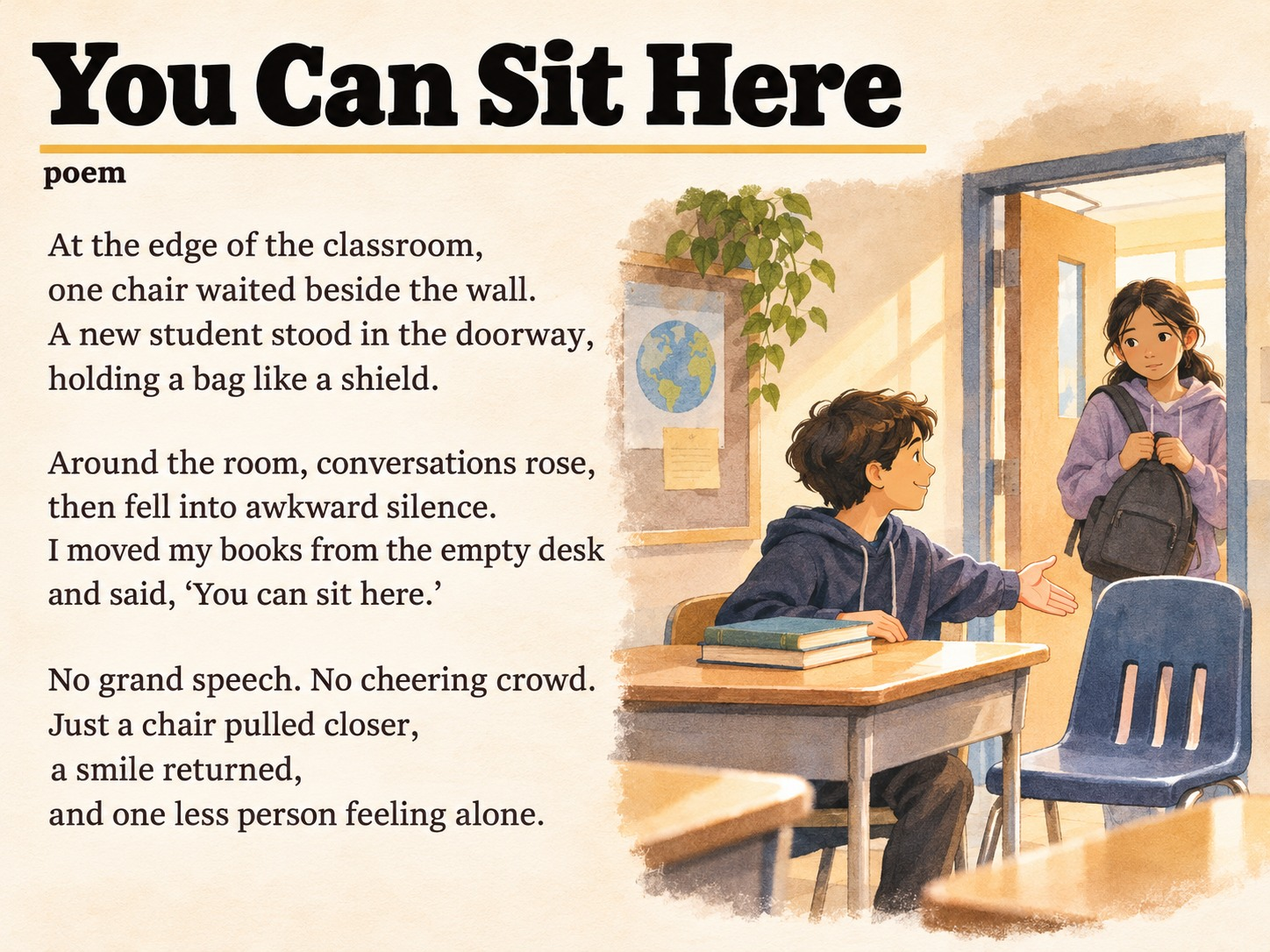
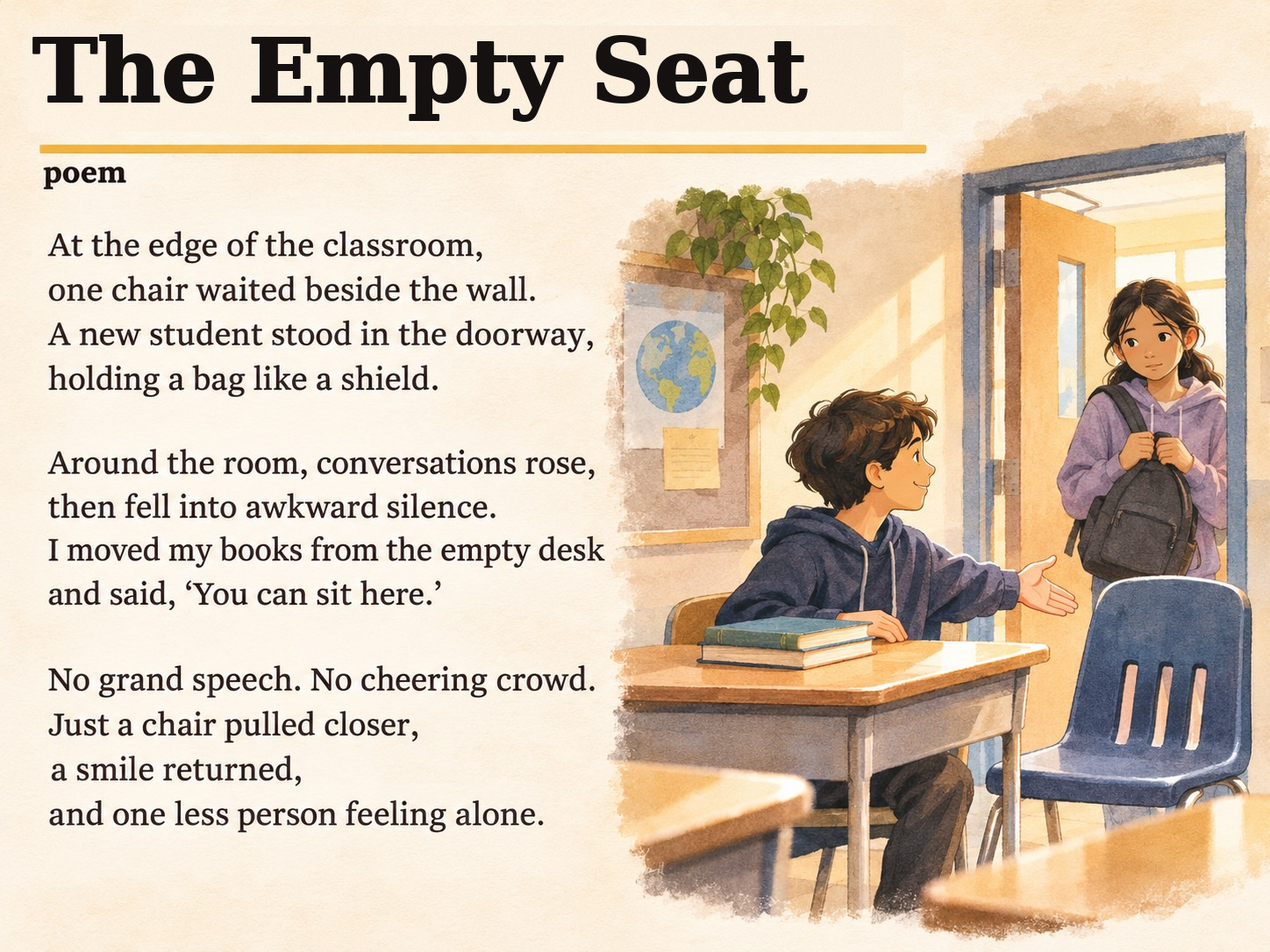
Add files via upload

Changed region(s): [[0.0311, 0.0304, 0.7148, 0.1519]]

diff --git a/week5.html b/week5.html
@@ -1,6 +1,9 @@
 <!doctype html><html lang="en"><head><meta charset="utf-8"><meta name="viewport" content="width=device-width,initial-scale=1"><title>Room 67’s Humanities | Week 5</title><style>
 @import url('https://fonts.googleapis.com/css2?family=Barlow+Condensed:wght@600;700;800&family=Poppins:wght@400;500;600;700;800&display=swap');
-:root{--wine:#73001e;--cherry:#240c0e;--cabernet:#52171c;--rose:#985b5d;--cocoa:#624039;--taupe:#ac968d;--mist:#d7d7d0;--paper:#f8f5f1;--ink:#241b1b;--line:#dfd4cf}*{box-sizing:border-box}body{margin:0;background:#eee9e4;color:var(--ink);font-family:'Avenir Next','Century Gothic',Arial,sans-serif;line-height:1.5}header{background:linear-gradient(110deg,#240c0e,#52171c 65%,#624039);color:white;padding:35px max(20px,calc((100vw - 1160px)/2));}header .over{letter-spacing:.17em;font-size:12px;text-transform:uppercase;color:#e8c9c4}h1{font-size:clamp(30px,5vw,52px);margin:5px 0;line-height:1.08}header p{margin:6px 0 0;color:#eee0dc}.wrap{max-width:1160px;margin:auto;padding:22px 16px 64px}.tabs{display:grid;grid-template-columns:repeat(6,minmax(0,1fr));gap:8px}.tab{border:2px solid #d8ccc6;background:white;border-radius:9px;padding:11px 9px;text-align:left;cursor:pointer;min-height:79px;color:#493032;font-size:13px;font-weight:700}.tab small{display:block;font-size:11px;font-weight:500;color:#796867;margin-top:4px}.tab.active{background:var(--wine);color:#fff;border-color:var(--wine)}.tab.active small{color:#f4dadd}.group-nav{display:grid;grid-template-columns:repeat(6,minmax(0,1fr));gap:8px;margin:10px 0 0}.group-nav button{min-width:0;min-height:58px;background:#fdfaf7;border:2px solid #ac968d;color:#52171c;border-radius:8px;cursor:pointer;text-align:center;padding:8px;font-weight:800;font-size:14px}.group-nav button small{display:block;font-weight:500;font-size:10px;line-height:1.25;color:#66524d;margin-top:3px}.group-nav button.active{background:#52171c;border-color:#52171c;color:#fff}.group-nav button.active small{color:#f0dcda}.group-nav .utility-tab{background:#eee3dd;border-color:#9d7872;color:#52171c}.group-nav .utility-tab.active{background:#73001e;color:white}.group-nav .utility-tab.active small{color:#f4dadd}.roster-cards{display:grid;grid-template-columns:repeat(5,1fr);gap:9px;margin-bottom:16px}.roster-card{background:#faf6f2;border:2px solid #d8c2bc;border-radius:10px;padding:12px 8px;text-align:left;cursor:pointer;color:#52171c}.roster-card.selected{border-color:#73001e;background:#f4e5e1}.roster-card b{display:block;margin-bottom:5px}.roster-card span{font-size:12px;line-height:1.5;display:block}.secondary-tabs{display:flex;gap:9px;margin:12px 0 20px;flex-wrap:wrap}.secondary-tabs .tab{min-height:auto;min-width:160px;text-align:center;padding:10px}section.page{display:none}section.page.active{display:block}.hero{background:#fff;border:1px solid var(--line);border-radius:16px;overflow:hidden;margin-bottom:16px;box-shadow:0 3px 0 #ded5cf}.herohead{background:linear-gradient(110deg,#52171c,#624039);color:white;padding:29px 33px}.pill{display:inline-block;border-radius:20px;background:#f4d5b1;color:#3a211c;font-size:12px;font-weight:800;padding:6px 14px}.hero h2{font-size:clamp(30px,4vw,46px);line-height:1.1;margin:18px 0 10px}.herohead p{max-width:750px}.inner{padding:26px 30px}.two{display:grid;grid-template-columns:1fr 1fr;gap:20px}.three{display:grid;grid-template-columns:repeat(3,1fr);gap:14px}.panel{border:1px solid var(--line);border-radius:12px;background:#fff;padding:19px}.panel h3{margin:0 0 12px;color:#4c272a}.panel p{margin:8px 0}.poem{font-family:Poppins,Arial,sans-serif;white-space:pre-line;font-size:19px;line-height:1.85;background:#f8f5f1;border-left:5px solid var(--rose);padding:25px;border-radius:8px}.q{padding:11px 0;border-bottom:1px solid #ebdfda}.q b{color:#762646}.q:last-child{border:none}.muted{color:#695b58;font-size:13px}.book{padding:17px 24px 22px 28px;background:repeating-linear-gradient(to bottom,#fffdfa 0,#fffdfa 33px,#c6d7e8 33px,#c6d7e8 34px);border-left:3px solid #b9404d;min-height:238px;font-family:'Comic Sans MS','Trebuchet MS',sans-serif;font-size:16px;line-height:34px}.book .bookline{min-height:34px;line-height:34px;white-space:normal}.book .heading{margin:0!important}.book .date{line-height:34px}.book .date{color:#aa1933;text-decoration:underline}.book .heading{text-align:center;text-decoration:underline;text-decoration-color:#b12f48;margin:0 0 34px}.note{background:#f5e7e2;border-left:5px solid var(--rose);border-radius:7px;padding:12px 16px}.teacher{border:2px solid var(--wine);border-radius:13px;overflow:hidden;background:white;margin:16px 0}.teacher>h3{margin:0;background:var(--wine);color:white;padding:16px 22px;letter-spacing:.03em}.teacher .content{padding:18px 22px}.teacher .model{border-radius:9px;padding:15px;background:#f3e6e2}.teacher .steps{display:grid;grid-template-columns:repeat(3,1fr);gap:12px}.teacher .steps>div{border:1px solid #ddd0cb;border-radius:8px;padding:12px}.teacher h4{margin:0 0 8px;color:#762a3d}.workshop-nav{display:grid;grid-template-columns:repeat(5,minmax(0,1fr));gap:9px;margin:16px 0}.workshop-nav button{border:2px solid #73001e;background:#fff8f6;border-radius:10px;padding:12px 5px;font-weight:800;color:#52171c;cursor:pointer}.workshop-nav button.active{background:#52171c;color:white}.workshop-model-grid{display:grid;grid-template-columns:1fr 1fr;gap:12px}.workshop-model-grid .panel{background:#faf4f1}.workshop-practice{padding:13px;border-radius:9px;background:#f6e8e3;margin-top:12px}.workshop-steps{margin:8px 0;padding-left:26px}.workshop-steps li{padding:5px 0}.workshop-buttons{display:grid;grid-template-columns:repeat(2,1fr);gap:10px;max-width:650px;margin:0 auto 18px}.workshop-buttons button{border:3px solid #a24667;border-radius:4px;background:white;padding:12px;font-size:25px;color:#555;cursor:pointer}.workshop-buttons button.selected{background:#52171c;color:white}.workshop-buttons button:last-child:nth-child(odd){grid-column:1/-1;width:50%;justify-self:center}.group-focus{display:inline-block;background:#f0e0dc;color:#6b2236;padding:5px 10px;border-radius:7px;font-size:12px}.wordgrid{display:grid;grid-template-columns:repeat(3,1fr);gap:12px}.wordgrid .wordcol{padding:12px;background:#faf6f1;border:1px solid #e5d5cc;border-radius:9px}.wordgrid ol{margin:0;padding-left:25px}.wordgrid li{padding:4px 0}.handwriting{background:#69453c;color:#fff;border-radius:16px;padding:26px}.handwriting .panel{color:#251c1a}.handwriting h2{margin:4px 0 10px}.links a,.btn{color:#fff;background:#52171c;padding:9px 13px;border-radius:8px;display:inline-block;text-decoration:none;margin:4px 4px 4px 0;font-size:13px}.tumble{background:#52171c;color:white;padding:19px;border-radius:13px;margin-top:18px}.tumble h3{color:white;margin:0 0 10px}.tumble-grid{display:grid;grid-template-columns:1fr 1fr;gap:9px}.tumble-grid>div{background:#fff9f5;color:#382629;border-radius:8px;padding:13px}.tumble-grid b{color:#69223a}textarea{width:100%;min-height:130px;padding:12px;border-radius:8px;border:1px solid #c9b7b0;font:inherit}button.save{padding:9px 15px;border:0;border-radius:7px;background:#52171c;color:white;cursor:pointer;margin-top:6px}.smallcaps{text-transform:uppercase;letter-spacing:.11em;font-size:12px;font-weight:800;color:#a15c64}.focusline{padding:9px 0;border-bottom:1px solid #e6dcd5}.banner{background:#73001e;color:white;text-align:center;padding:20px;font-size:33px;font-weight:800;line-height:1.18;margin-bottom:16px}.no-print{}@media(max-width:760px){.tabs{grid-template-columns:repeat(2,1fr)}.group-nav{grid-template-columns:repeat(2,1fr)}.roster-cards{grid-template-columns:repeat(2,1fr)}.two,.three,.teacher .steps,.tumble-grid,.workshop-model-grid{grid-template-columns:1fr}.workshop-nav{grid-template-columns:repeat(3,minmax(0,1fr))}.wordgrid{grid-template-columns:repeat(3,minmax(0,1fr));gap:5px}.wordgrid .wordcol{padding:5px;font-size:12px}.inner{padding:18px}.herohead{padding:23px}.workshop-buttons button{font-size:19px}}@media print{header{padding:16px}.tabs,.secondary-tabs,.no-print{display:none!important}section.page{display:block!important;page-break-after:always}.wrap{padding:5px}.hero{box-shadow:none}.teacher,.tumble{break-inside:avoid}}
+:root{--wine:#73001e;--cherry:#240c0e;--cabernet:#52171c;--rose:#985b5d;--cocoa:#624039;--taupe:#ac968d;--mist:#d7d7d0;--paper:#f8f5f1;--ink:#241b1b;--line:#dfd4cf}*{box-sizing:border-box}body{margin:0;background:#eee9e4;color:var(--ink);font-family:'Avenir Next','Century Gothic',Arial,sans-serif;line-height:1.5}header{background:linear-gradient(110deg,#240c0e,#52171c 65%,#624039);color:white;padding:35px max(20px,calc((100vw - 1160px)/2));}header .over{letter-spacing:.17em;font-size:12px;text-transform:uppercase;color:#e8c9c4}h1{font-size:clamp(30px,5vw,52px);margin:5px 0;line-height:1.08}header p{margin:6px 0 0;color:#eee0dc}.wrap{max-width:1160px;margin:auto;padding:22px 16px 64px}.tabs{display:grid;grid-template-columns:repeat(6,minmax(0,1fr));gap:8px}.tab{border:2px solid #d8ccc6;background:white;border-radius:10px;padding:11px 9px;text-align:left;cursor:pointer;min-height:79px;color:#493032;font-size:13px;font-weight:700}.tab small{display:block;font-size:11px;font-weight:500;color:#796867;margin-top:4px}.tab.active{background:var(--wine);color:#fff;border-color:var(--wine)}.tab.active small{color:#f4dadd}.group-nav{display:grid;grid-template-columns:repeat(6,minmax(0,1fr));gap:8px;margin:10px 0 0}.group-nav button{min-width:0;min-height:58px;background:#fdfaf7;border:2px solid #ac968d;color:#52171c;border-radius:8px;cursor:pointer;text-align:center;padding:8px;font-weight:800;font-size:14px}.group-nav button small{display:block;font-weight:500;font-size:10px;line-height:1.25;color:#66524d;margin-top:3px}.group-nav button.active{background:#52171c;border-color:#52171c;color:#fff}.group-nav button.active small{color:#f0dcda}.group-nav .utility-tab{background:#eee3dd;border-color:#9d7872;color:#52171c}.group-nav .utility-tab.active{background:#73001e;color:white}.group-nav .utility-tab.active small{color:#f4dadd}
+.group-nav .utility-tab.warmup-utility,.group-nav .utility-tab.warmup-utility.active{background:#624039;border-color:#624039;color:#fff}
+.group-nav .utility-tab.warmup-utility small{color:#efe5df}
+.roster-cards{display:grid;grid-template-columns:repeat(5,1fr);gap:9px;margin-bottom:16px}.roster-card{background:#faf6f2;border:2px solid #d8c2bc;border-radius:10px;padding:12px 8px;text-align:left;cursor:pointer;color:#52171c}.roster-card.selected{border-color:#73001e;background:#f4e5e1}.roster-card b{display:block;margin-bottom:5px}.roster-card span{font-size:12px;line-height:1.5;display:block}.secondary-tabs{display:flex;gap:9px;margin:12px 0 20px;flex-wrap:wrap}.secondary-tabs .tab{min-height:auto;min-width:160px;text-align:center;padding:10px}section.page{display:none}section.page.active{display:block}.hero{background:#fff;border:1px solid var(--line);border-radius:16px;overflow:hidden;margin-bottom:16px;box-shadow:0 3px 0 #ded5cf}.herohead{background:linear-gradient(110deg,#52171c,#624039);color:white;padding:29px 33px}.pill{display:inline-block;border-radius:20px;background:#f4d5b1;color:#3a211c;font-size:12px;font-weight:800;padding:6px 14px}.hero h2{font-size:clamp(30px,4vw,46px);line-height:1.1;margin:18px 0 10px}.herohead p{max-width:750px}.inner{padding:26px 30px}.two{display:grid;grid-template-columns:1fr 1fr;gap:20px}.three{display:grid;grid-template-columns:repeat(3,1fr);gap:14px}.panel{border:1px solid var(--line);border-radius:12px;background:#fff;padding:19px}.panel h3{margin:0 0 12px;color:#4c272a}.panel p{margin:8px 0}.poem{font-family:Poppins,Arial,sans-serif;white-space:pre-line;font-size:19px;line-height:1.85;background:#f8f5f1;border-left:5px solid var(--rose);padding:25px;border-radius:8px}.q{padding:11px 0;border-bottom:1px solid #ebdfda}.q b{color:#762646}.q:last-child{border:none}.muted{color:#695b58;font-size:13px}.book{padding:17px 24px 22px 28px;background:repeating-linear-gradient(to bottom,#fffdfa 0,#fffdfa 33px,#c6d7e8 33px,#c6d7e8 34px);border-left:3px solid #b9404d;min-height:238px;font-family:'Comic Sans MS','Trebuchet MS',sans-serif;font-size:16px;line-height:34px}.book .bookline{min-height:34px;line-height:34px;white-space:normal}.book .heading{margin:0!important}.book .date{line-height:34px}.book .date{color:#aa1933;text-decoration:underline}.book .heading{text-align:center;text-decoration:underline;text-decoration-color:#b12f48;margin:0 0 34px}.note{background:#f5e7e2;border-left:5px solid var(--rose);border-radius:7px;padding:12px 16px}.teacher{border:2px solid var(--wine);border-radius:13px;overflow:hidden;background:white;margin:16px 0}.teacher>h3{margin:0;background:var(--wine);color:white;padding:16px 22px;letter-spacing:.03em}.teacher .content{padding:18px 22px}.teacher .model{border-radius:9px;padding:15px;background:#f3e6e2}.teacher .steps{display:grid;grid-template-columns:repeat(3,1fr);gap:12px}.teacher .steps>div{border:1px solid #ddd0cb;border-radius:8px;padding:12px}.teacher h4{margin:0 0 8px;color:#762a3d}.workshop-nav{display:grid;grid-template-columns:repeat(5,minmax(0,1fr));gap:9px;margin:16px 0}.workshop-nav button{border:2px solid #73001e;background:#fff8f6;border-radius:10px;padding:12px 5px;font-weight:800;color:#52171c;cursor:pointer}.workshop-nav button.active{background:#52171c;color:white}.workshop-model-grid{display:grid;grid-template-columns:1fr 1fr;gap:12px}.workshop-model-grid .panel{background:#faf4f1}.workshop-practice{padding:13px;border-radius:9px;background:#f6e8e3;margin-top:12px}.workshop-steps{margin:8px 0;padding-left:26px}.workshop-steps li{padding:5px 0}.workshop-buttons{display:grid;grid-template-columns:repeat(2,1fr);gap:10px;max-width:650px;margin:0 auto 18px}.workshop-buttons button{border:3px solid #a24667;border-radius:4px;background:white;padding:12px;font-size:25px;color:#555;cursor:pointer}.workshop-buttons button.selected{background:#52171c;color:white}.workshop-buttons button:last-child:nth-child(odd){grid-column:1/-1;width:50%;justify-self:center}.group-focus{display:inline-block;background:#f0e0dc;color:#6b2236;padding:5px 10px;border-radius:7px;font-size:12px}.wordgrid{display:grid;grid-template-columns:repeat(3,1fr);gap:12px}.wordgrid .wordcol{padding:12px;background:#faf6f1;border:1px solid #e5d5cc;border-radius:9px}.wordgrid ol{margin:0;padding-left:25px}.wordgrid li{padding:4px 0}.handwriting{background:#69453c;color:#fff;border-radius:16px;padding:26px}.handwriting .panel{color:#251c1a}.handwriting h2{margin:4px 0 10px}.links a,.btn{color:#fff;background:#52171c;padding:9px 13px;border-radius:8px;display:inline-block;text-decoration:none;margin:4px 4px 4px 0;font-size:13px}.tumble{background:#52171c;color:white;padding:19px;border-radius:13px;margin-top:18px}.tumble h3{color:white;margin:0 0 10px}.tumble-grid{display:grid;grid-template-columns:1fr 1fr;gap:9px}.tumble-grid>div{background:#fff9f5;color:#382629;border-radius:8px;padding:13px}.tumble-grid b{color:#69223a}textarea{width:100%;min-height:130px;padding:12px;border-radius:8px;border:1px solid #c9b7b0;font:inherit}button.save{padding:9px 15px;border:0;border-radius:7px;background:#52171c;color:white;cursor:pointer;margin-top:6px}.smallcaps{text-transform:uppercase;letter-spacing:.11em;font-size:12px;font-weight:800;color:#a15c64}.focusline{padding:9px 0;border-bottom:1px solid #e6dcd5}.banner{background:#73001e;color:white;text-align:center;padding:20px;font-size:33px;font-weight:800;line-height:1.18;margin-bottom:16px}.no-print{}@media(max-width:760px){.tabs{grid-template-columns:repeat(2,1fr)}.group-nav{grid-template-columns:repeat(2,1fr)}.roster-cards{grid-template-columns:repeat(2,1fr)}.two,.three,.teacher .steps,.tumble-grid,.workshop-model-grid{grid-template-columns:1fr}.workshop-nav{grid-template-columns:repeat(3,minmax(0,1fr))}.wordgrid{grid-template-columns:repeat(3,minmax(0,1fr));gap:5px}.wordgrid .wordcol{padding:5px;font-size:12px}.inner{padding:18px}.herohead{padding:23px}.workshop-buttons button{font-size:19px}}@media print{header{padding:16px}.tabs,.secondary-tabs,.no-print{display:none!important}section.page{display:block!important;page-break-after:always}.wrap{padding:5px}.hero{box-shadow:none}.teacher,.tumble{break-inside:avoid}}
 
 /* Week 5 revision — permanent resource colours and clear literacy prompts */
 .tab.handwriting-tab{background:#624039;color:#fff;border-color:#624039}
@@ -123,16 +126,18 @@ body{background:#f5f0ed}
 .slide-image{width:100%;display:block;border-radius:6px;border:1px solid #dacdc7;height:auto}
 @media(max-width:760px){.full-width .group-nav{grid-template-columns:repeat(3,minmax(0,1fr));gap:5px}.full-width .group-nav button{min-height:42px;font-size:12px;padding:5px}.poem-image{width:100%}}
 
-/* Final palette: Daily Lessons + Warm-ups both use Black Cherry. */
+/* Warm-ups now match the handwriting brown styling. */
 .full-width .tabs .tab.warmup-tab,
-.full-width .tabs .tab.warmup-tab.active{background:#240C0E;color:#fff;border-bottom-color:#240C0E}
-.full-width .tabs .tab.warmup-tab.active{border-bottom-color:#AC968D}
-#p6 .banner,#p6 .herohead{background:#240C0E}
-#p6 .panel h2,#p6 .panel h3,#p6 .inner h3{color:#240C0E}
-#p6 .panel{border-color:#D7C9C4}
-#p6 .note{background:#F5EFEC;border-left-color:#240C0E}
-#p6 .roster-card.selected{border-color:#240C0E;background:#F5EFEC}
-#p6 .wordcol{border-color:#D7C9C4;background:#FAF7F3}
+.full-width .tabs .tab.warmup-tab.active{background:#624039;color:#fff;border-color:#624039}
+#p6 .banner,#p6 .herohead{background:#624039}
+#p6 .panel h2,#p6 .panel h3,#p6 .inner h3{color:#624039}
+#p6 .panel{border-color:#d6bcb2}
+#p6 .note{background:#f5ece7;border-left-color:#624039}
+#p6 .roster-card.selected{border-color:#624039;background:#f6ede8}
+#p6 .wordcol{border-color:#d6bcb2;background:#fbf7f3}
+#p6 .spelling-group-tab{border-color:#c9afa9;background:#faf6f3;color:#352322}
+#p6 .spelling-group-tab.selected{background:#624039;color:#fff;border-color:#624039}
+#p6 .selected-spelling-list h4{color:#624039}
 
 /* Week 5: compact spelling warm-up and handwriting timer */
 .warmup-grid{display:grid;grid-template-columns:minmax(0,1.06fr) minmax(0,.94fr);gap:18px;align-items:start;margin-top:18px}
@@ -159,8 +164,8 @@ const focuses=['Find answers and clues','Word meanings and clues','Explain ideas
 const qEmpty=[['Where is the new student?','What does the speaker move?','What does the speaker say?','How might the newcomer feel at first? Give a clue.','How might they feel at the end?'],['Why is the bag described as a shield?','What changes when the speaker moves their books?','Find a welcoming line.','Explain “one less person feeling alone”.','What is the message? Give evidence.'],['What is the problem in stanza 1?','Why does the silence feel awkward?','How does the speaker respond differently?','Explain the message using two lines.','Why end with the new student feeling less alone?'],['What does “bag like a shield” tell you about how the student might feel?','How does the student’s feeling change? Find two clues.','Why is the invitation more important than a speech?','How does this poem help us see why including others matters?','What might happen if no one offered the new student a seat? Use a clue.'],['What does this small moment teach us about kindness?','What might the shield and the empty seat stand for?','Does the poem mean words do not matter? Explain using a line.','How does the ending help us understand the start of the poem?','What else could the ending mean? Which meaning fits the poem best?']];
 const qJacket=[['What weather is described?','What does the speaker leave?','Where is the jacket left?','How might the student feel at first? Find a clue.'],['What clues show the student is cold?','What kind action does the speaker take?','Why might the speaker not announce it?','Complete: “The poet shows compassion when ___ because ___.”'],['Summarise the poem in three events.','Explain “the wind pushed through the gates”.','What does the student do differently at the end?','What is the message? Support it with a line.'],['How does the cold weather make the poem feel?','Why does “without a speech” matter?','Compare the jacket with the empty seat.','How does the ending show compassion without naming it?'],['How do restrained details shape the reader’s judgement?','What might the jacket symbolise beyond warmth?','How do both poems show someone being included without making a fuss?','Could the jacket mean something other than keeping warm? Show a clue.']];
 const spellingLists=[["because", "different", "favourite", "important", "something", "thought", "through", "always", "another", "before", "every", "people", "school", "tākaro", "kōrero", "mahi", "ako", "tamariki", "hapori", "taiao"], ["beautiful", "beginning", "believe", "enough", "exercise", "calendar", "straight", "surprise", "probably", "business", "interesting", "separate", "knowledge", "familiar", "competition", "government", "temperature", "manaakitanga", "kaitiakitanga", "whanaungatanga"], ["environment", "necessary", "opportunity", "responsibility", "successful", "achievement", "recommend", "immediately", "pronunciation", "embarrassing", "disastrous", "relevant", "apparent", "existence", "convenient", "cemetery", "amateur", "category", "definite", "rangatiratanga"], ["privilege", "mischievous", "conscience", "guarantee", "perseverance", "accommodate", "questionnaire", "exaggerate", "extraordinary", "irresistible", "manoeuvre", "maintenance", "accidentally", "prejudice", "courageous", "possession", "miniature", "unnecessary", "correspondence", "tūrangawaewae"], ["conscientious", "miscellaneous", "exhilaration", "millennium", "acquaintance", "susceptible", "indispensable", "hierarchy", "liaison", "fluorescent", "bureaucracy", "entrepreneur", "camouflage", "quintessential", "idiosyncrasy", "reconnaissance", "sacrilegious", "onomatopoeia", "surreptitious", "manoeuvrability"]];
-const labels=['Mon 9 Nov','Thu 12 Nov','Wed 11 Nov','Fri 13 Nov','Handwriting','Teacher Workshops','Warm-ups'];
-const tabNames=['Reading Comprehension','Spelling & Vocabulary','Reading Comprehension','Writing & Publishing Task','Handwriting & Independent Reading','Teacher Workshops','Spelling practice'];
+const labels=['Mon 9 Nov','Thu 12 Nov','Wed 11 Nov','Fri 13 Nov','HANDWRITING','Teacher Workshops','WARM-UPS'];
+const tabNames=['Reading Comprehension','Spelling & Vocabulary','Reading Comprehension','Writing & Publishing Task','','Teacher Workshops',''];
 let current='p0', currentGroup=0;const $=id=>document.getElementById(id),esc=x=>String(x).replace(/[&<>\"']/g,c=>({'&':'&amp;','<':'&lt;','>':'&gt;','\"':'&quot;',"'":'&#39;'}[c]));
 const startersEmpty=[
 ['The new student is ...','The speaker moves ...','The speaker says, “...”','At first, the new student might feel ... because ...','By the end, the new student might feel ...'],
@@ -182,7 +187,7 @@ function questions(arr,stems){return arr.map((q,i)=>`<div class="q"><div class="
 function groupSelector(id,kind){return `<div class="panel"><span class="group-focus">Group ${currentGroup+1}</span><div>${questions(kind==='empty'?qEmpty[currentGroup]:qJacket[currentGroup],kind==='empty'?startersEmpty[currentGroup]:startersJacket[currentGroup])}</div></div>`}
 function teaching(title,model,think,wedo,you1,you2){return `<div class="teacher"><h3>TEACH THIS · ${title}</h3><div class="content"><div class="smallcaps">I DO — MODEL ON THE BOARD</div><div class="model">${model}</div><p><b>Think aloud:</b> ${think}</p><div class="steps"><div><h4>WE DO</h4>${wedo}</div><div><h4>YOU DO · 1</h4>${you1}</div><div><h4>YOU DO · 2</h4>${you2}</div></div></div></div>`}
 function tumble(entries){return `<div class="tumble"><h3>Teacher tumble · quick reference</h3><div class="tumble-grid">${entries.map(e=>`<div><b>${e[0]}</b><div>${e[1]}</div><small>${e[2]}</small></div>`).join('')}</div></div>`}
-function render(){let first=[0,2,1,3,4,6].map(i=>`<button class="tab ${i===4?'handwriting-tab':i===6?'warmup-tab':''} ${current==='p'+i?'active':''}" onclick="switchPage('p${i}')">${labels[i]}${i===6?'':`<small>${tabNames[i]}</small>`}</button>`).join('');$('tabs').innerHTML=first;$('groupTabs').innerHTML=[1,2,3,4,5].map((n,i)=>`<button class="${i===currentGroup?'active':''}" onclick="chooseGroup(${i})">Group ${n}</button>`).join('')+[5].map(i=>`<button class="utility-tab workshop-utility ${current==='p'+i?'active':''}" onclick="switchPage('p${i}')">${i===6?'Warm-ups':'Teacher Workshops'}</button>`).join('');
+function render(){let first=[0,2,1,3,4,6].map(i=>`<button class="tab ${i===4?'handwriting-tab':i===6?'warmup-tab':''} ${current==='p'+i?'active':''}" onclick="switchPage('p${i}')">${labels[i]}${tabNames[i]?`<small>${tabNames[i]}</small>`:''}</button>`).join('');$('tabs').innerHTML=first;$('groupTabs').innerHTML=[1,2,3,4,5].map((n,i)=>`<button class="${i===currentGroup?'active':''}" onclick="chooseGroup(${i})">Group ${n}</button>`).join('')+[5].map(i=>`<button class="utility-tab ${i===6?'warmup-utility':'workshop-utility'} ${current==='p'+i?'active':''}" onclick="switchPage('p${i}')">${i===6?'WARM-UPS':'Teacher Workshops'}</button>`).join('');
 let pages=[];
 pages.push(hero(1,'Monday 9 November','The Empty Seat','Read the poem. Find clues and answer your own group’s comprehension questions in your Humanities book.',`<div class="note"><b>Cover lesson · Period 3:</b> 5–10 min spelling warm-up → read poem → short example together → students work on the questions → exit sentence. <b>Period 4: Library.</b></div><h3>Read the poem</h3><img class="poem-image" src="you-can-sit-here.jpg" alt="You Can Sit Here: full poem about a new student being welcomed into the classroom"><div class="two" style="margin-top:22px"><div><h3>Find it in the text</h3>${groupSelector('g1','empty')}</div><div><h3>Your book layout</h3>${book('Monday 9 November 2026','The Empty Seat','Where is the new student?','The new student is standing in the classroom doorway.')}<div class="note" style="margin-top:12px"><b>Quick model:</b> “holding a bag like a shield” → a shield protects → the student may be nervous. <b>Inference = clue + thinking.</b></div><div class="panel" style="margin-top:12px"><h3>Fast finishers</h3><p>Write <b>one new stanza</b> to add to the <b>beginning or end</b> of <i>You Can Sit Here</i>. Keep the poem's message of compassion. Write it neatly so we can display it on our classroom wall.</p></div></div></div>`));
 pages.push(hero(2,'Thursday 12 November','Spelling & Vocabulary','Learn the spelling rule. Practise it together, then use it in your book.',`${teaching('DOUBLE CONSONANTS · LISTEN FOR THE STRESS',`<b>begin → beginning</b><br>begin ends with a stressed syllable: <b>gin</b> (consonant–vowel–consonant). Double the final <b>n</b> before -ing.<br><br><b>forget → forgetting</b><br>The last syllable <b>get</b> is stressed and ends consonant–vowel–consonant, so double the <b>t</b>.`,`“I listen for the stressed part. I check the last three letters: consonant, vowel, consonant. When the last syllable is stressed, I double the final consonant before adding -ing. But not every word doubles — open becomes opening.”`,`<b>WE DO: plan → planning.</b> Say “plan”. Find the vowel <b>a</b> between <b>l</b> and <b>n</b>. It is a one-syllable CVC word, so double <b>n</b>. Then try <b>stop → stopping</b> together.`,`<b>YOU DO 1: hop → ?</b> Write the -ing form and underline the doubled letter. Say why you doubled it. <b>Answer:</b> hopping — one-syllable CVC word.`,`<b>YOU DO 2: admit → ?</b> Write the -ing form. Explain which syllable is stressed. <b>Answer:</b> admitting — the final syllable “mit” is stressed, so double t.`)}<div class="two"><div class="panel"><h3>Your five-word task</h3><p><b>Words:</b> beginning · forgetting · planning · hopping · admitting</p><ol><li>Copy each word. Underline the doubled consonant.</li><li>Break the word into parts to show how it was made.</li><li>Write what the word means on a <b>new line</b>.</li><li>Use the word in a sentence.</li><li>Cover the word, spell it again, then check.</li></ol><div class="note"><b>Remember:</b> <i>open → opening</i>. We do not double the n because the first syllable is stressed, not the last.</div></div><div class="panel"><h3>Your book layout</h3><div class="book"><div class="date">Thursday 12 November 2026</div><div class="bookline">&nbsp;</div><div class="heading">Spelling &amp; Vocabulary</div><div class="bookline">&nbsp;</div><div class="bookline">Focus: double consonants</div><div class="bookline">Word: beginning</div><div class="bookline">begin + n + ing</div><div class="bookline">Meaning: the start of something.</div><div class="bookline">Sentence: This is the beginning of our story.</div></div></div></div>`));
